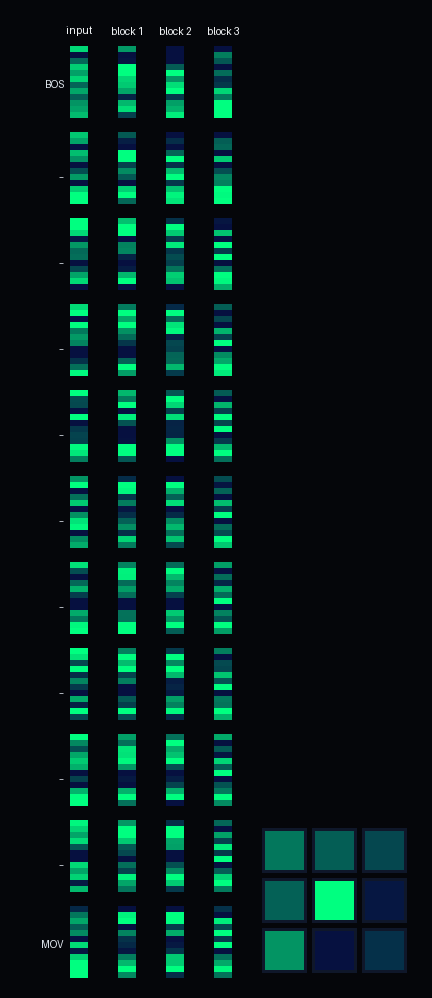
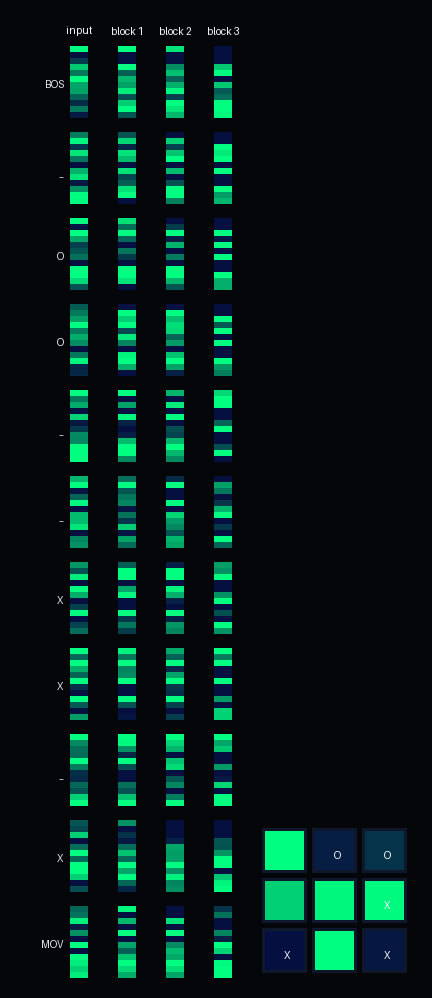
getting there

diff --git a/tictactokenizer.py b/tictactokenizer.py
@@ -421,7 +421,7 @@ def render_activation_grid(
     img.save(path)
 
 
-def introspect_model(model: MicroGPT, engine: TicTacToeEngine, device: torch.device, path: str = "introspect_activations.png") -> None:
+def introspect_model(model: MicroGPT, engine: TicTacToeEngine, device: torch.device, path: str = "current_introspection.png") -> None:
     model.eval()
     board, move = engine.random_state_and_move()
     context_tokens = [BOS_ID] + [stoi[cell] for cell in board] + [MOV_ID]
@@ -606,7 +606,12 @@ def load_quantized_weights(model: MicroGPT, path: str) -> None:
     model.load_state_dict(new_state)
 
 
-def run_training(model: MicroGPT, engine: TicTacToeEngine, device: torch.device) -> None:
+def run_training(
+    model: MicroGPT,
+    engine: TicTacToeEngine,
+    device: torch.device,
+    introspect: bool = False,
+) -> None:
     optimizer = torch.optim.Adam(model.parameters(), lr=learning_rate, betas=(beta1, beta2), eps=eps_adam)
 
     for step in range(num_steps):
@@ -626,6 +631,22 @@ def run_training(model: MicroGPT, engine: TicTacToeEngine, device: torch.device)
             group["lr"] = lr_t
         optimizer.step()
         print(f"step {step + 1:4d} / {num_steps:4d} | loss {loss.item():.4f}", end="\r")
+
+        if introspect and (step + 1) % 100 == 0:
+            try:
+                board, _ = engine.random_state_and_move()
+            except Exception:
+                board = ["_"] * 9
+            tokens = [BOS_ID] + [stoi[cell] for cell in board] + [MOV_ID]
+            idx = torch.tensor(tokens, dtype=torch.long, device=device).unsqueeze(0)
+            with torch.no_grad():
+                _, activations = model.forward_with_activations(idx)
+            render_activation_grid(
+                activations,
+                tokens,
+                "current_introspection.png",
+                board=board,
+            )
 
     save_quantized_weights(model, weights_path)
     print(f"\nSaved quantized weights to {weights_path}")
@@ -681,7 +702,7 @@ def main() -> None:
     if args.train or not weights_exist:
         if not args.train and not weights_exist:
             print("Weights missing or invalid size; training a new model.")
-        run_training(model, engine, device)
+        run_training(model, engine, device, introspect=args.introspect)
     else:
         load_quantized_weights(model, weights_path)
         model.to(device)
